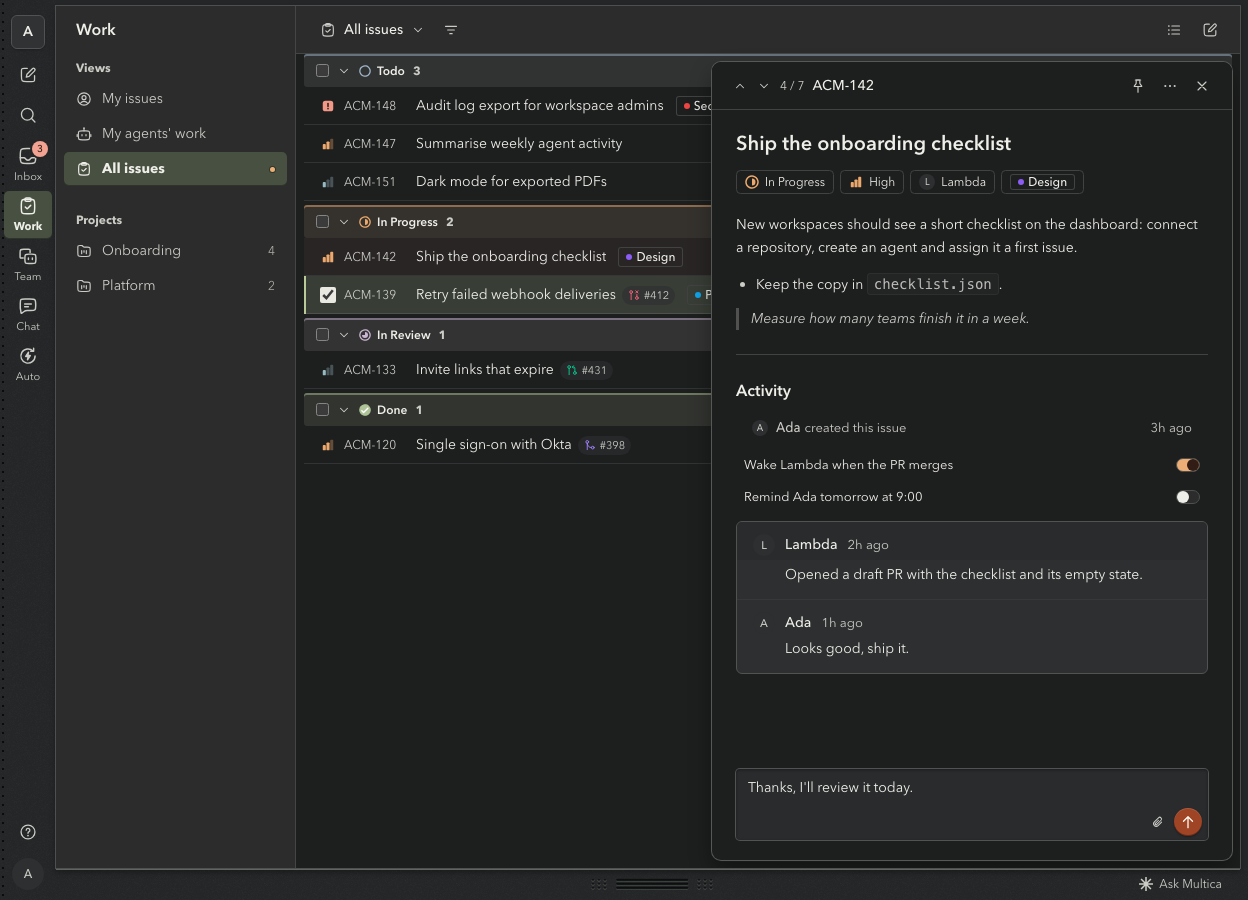
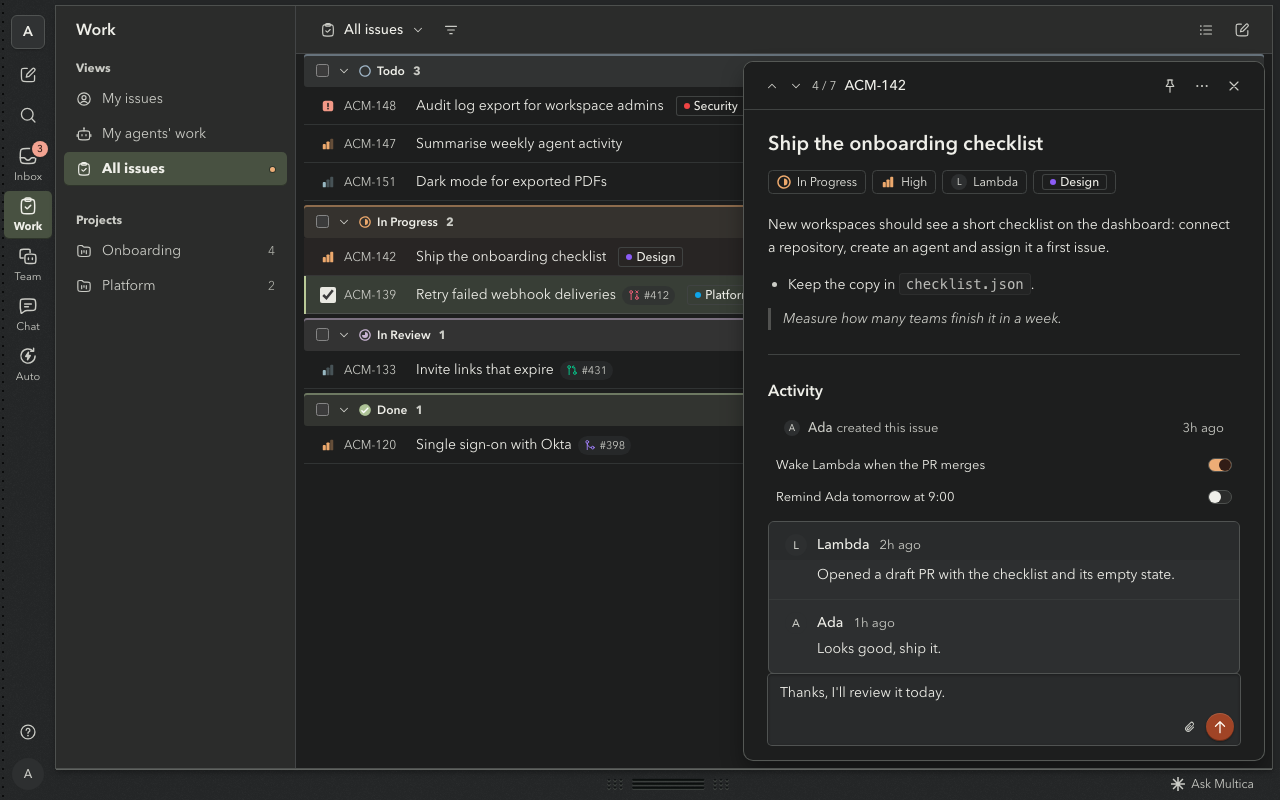
fix: publish Braun with a permanent case texture

diff --git a/theme.css b/theme.css
@@ -254,7 +254,7 @@
   border-color: var(--relay-panel-rule);
 }
 
-:root[data-theme-option-mold-grain] :is([data-mc="app-rail"], [data-mc="window-toolbar"], [data-mc="tab-bar"], [data-mc="bottom-bar"]) {
+:is([data-mc="app-rail"], [data-mc="window-toolbar"], [data-mc="tab-bar"], [data-mc="bottom-bar"]) {
   --relay-grain-image: url(images/molded-grain.png);
   background-image: var(--relay-grain-image);
   background-repeat: repeat;
@@ -264,7 +264,7 @@
 :root[data-theme-option-chassis-detail] [data-mc="app-rail"] {
   background-image:
     radial-gradient(circle at 3px 4px, var(--relay-perforation-ink) 0.7px, transparent 1.2px),
-    var(--relay-grain-image, none);
+    var(--relay-grain-image);
   background-position: left top, left top;
   background-size: 6px 9px, auto;
   background-repeat: repeat-y, repeat;
@@ -468,7 +468,7 @@
   }
 
   :root[data-theme-option-chassis-detail] [data-mc="bottom-bar"] {
-    background-image: var(--relay-grille-image), var(--relay-grain-image, none);
+    background-image: var(--relay-grille-image), var(--relay-grain-image);
     background-size: 128px 12px, auto;
     background-position: center, left top;
     background-repeat: no-repeat, repeat;

diff --git a/README.md b/README.md
@@ -34,9 +34,11 @@ Switch between burnt orange and olive green under **Settings → Appearance → 
 
 In Multica, open **Settings → Appearance → Make your own theme → Import theme** and select the downloaded ZIP. [Download theme.zip](https://github.com/gooyoung/multica-theme-braun/releases/latest/download/theme.zip)
 
-Multica stores themes and options per browser profile. Import the ZIP in each profile where you use Braun. The package includes the theme CSS and every image it needs. **Chassis details** are on by default and show the perforations and grille in the wide workspace layout. **Keycap bevels** and **Case texture** can be adjusted independently.
+Multica stores themes and options per browser profile. Import the ZIP in each profile where you use Braun. The theme ID is `braun`, and the ZIP includes the CSS and all of its images. Case texture is built in. **Chassis details** are on by default and show the perforations and grille in the wide workspace layout. **Keycap bevels** can be adjusted independently.
 
-Braun uses the theme ID `relay` so Multica recognises earlier installations when you import an update.
+### Previews in the theme manager
+
+A ZIP import shows a schematic preview in the current appearance mode. The theme store generates screenshots in both modes and adds a Light/Dark switch to its listing. Once Braun is listed, install it from **Settings → Appearance → Manage** for the store entry. If you already imported Braun with the same theme ID, remove that local copy first to install from the store. [Multica theme store guide](https://github.com/multica-ai/multica-themes/blob/main/CONTRIBUTING.md)
 
 ## Source
 

diff --git a/README.zh-CN.md b/README.zh-CN.md
@@ -34,9 +34,11 @@
 
 在 Multica 中打开 **设置 → 外观 → 制作自己的主题 → 导入主题**，选择下载的 ZIP。[下载主题包](https://github.com/gooyoung/multica-theme-braun/releases/latest/download/theme.zip)
 
-主题和设置按浏览器配置分别保存，换浏览器时导入一次即可。包内包含主题 CSS 和全部所需图片。**机壳细节** 默认开启，在宽屏工作区显示左侧细孔和底部横槽。**键帽倒角** 和 **外壳纹理** 可以单独调整。
+主题和设置按浏览器配置分别保存，换浏览器时导入一次即可。主题 ID 为 `braun`，包内包含主题 CSS 和全部所需图片。外壳纹理始终开启。**机壳细节** 默认开启，在宽屏工作区显示左侧细孔和底部横槽。**键帽倒角** 可以单独调整。
 
-Braun 沿用主题 ID `relay`，此前导入过的用户可以直接导入新版 ZIP 覆盖更新。
+### 主题管理中的预览
+
+通过 ZIP 导入的主题会显示当前模式的示意图。主题商店会生成浅色和深色实景预览，并在卡片上提供切换按钮。Braun 收录后，可从 **设置 → 外观 → 管理** 安装商店版。如果已经导入相同 ID 的本地版，需先移除本地版才能从商店安装。[Multica 主题商店规范](https://github.com/multica-ai/multica-themes/blob/main/CONTRIBUTING.md)
 
 ## 源码
 
